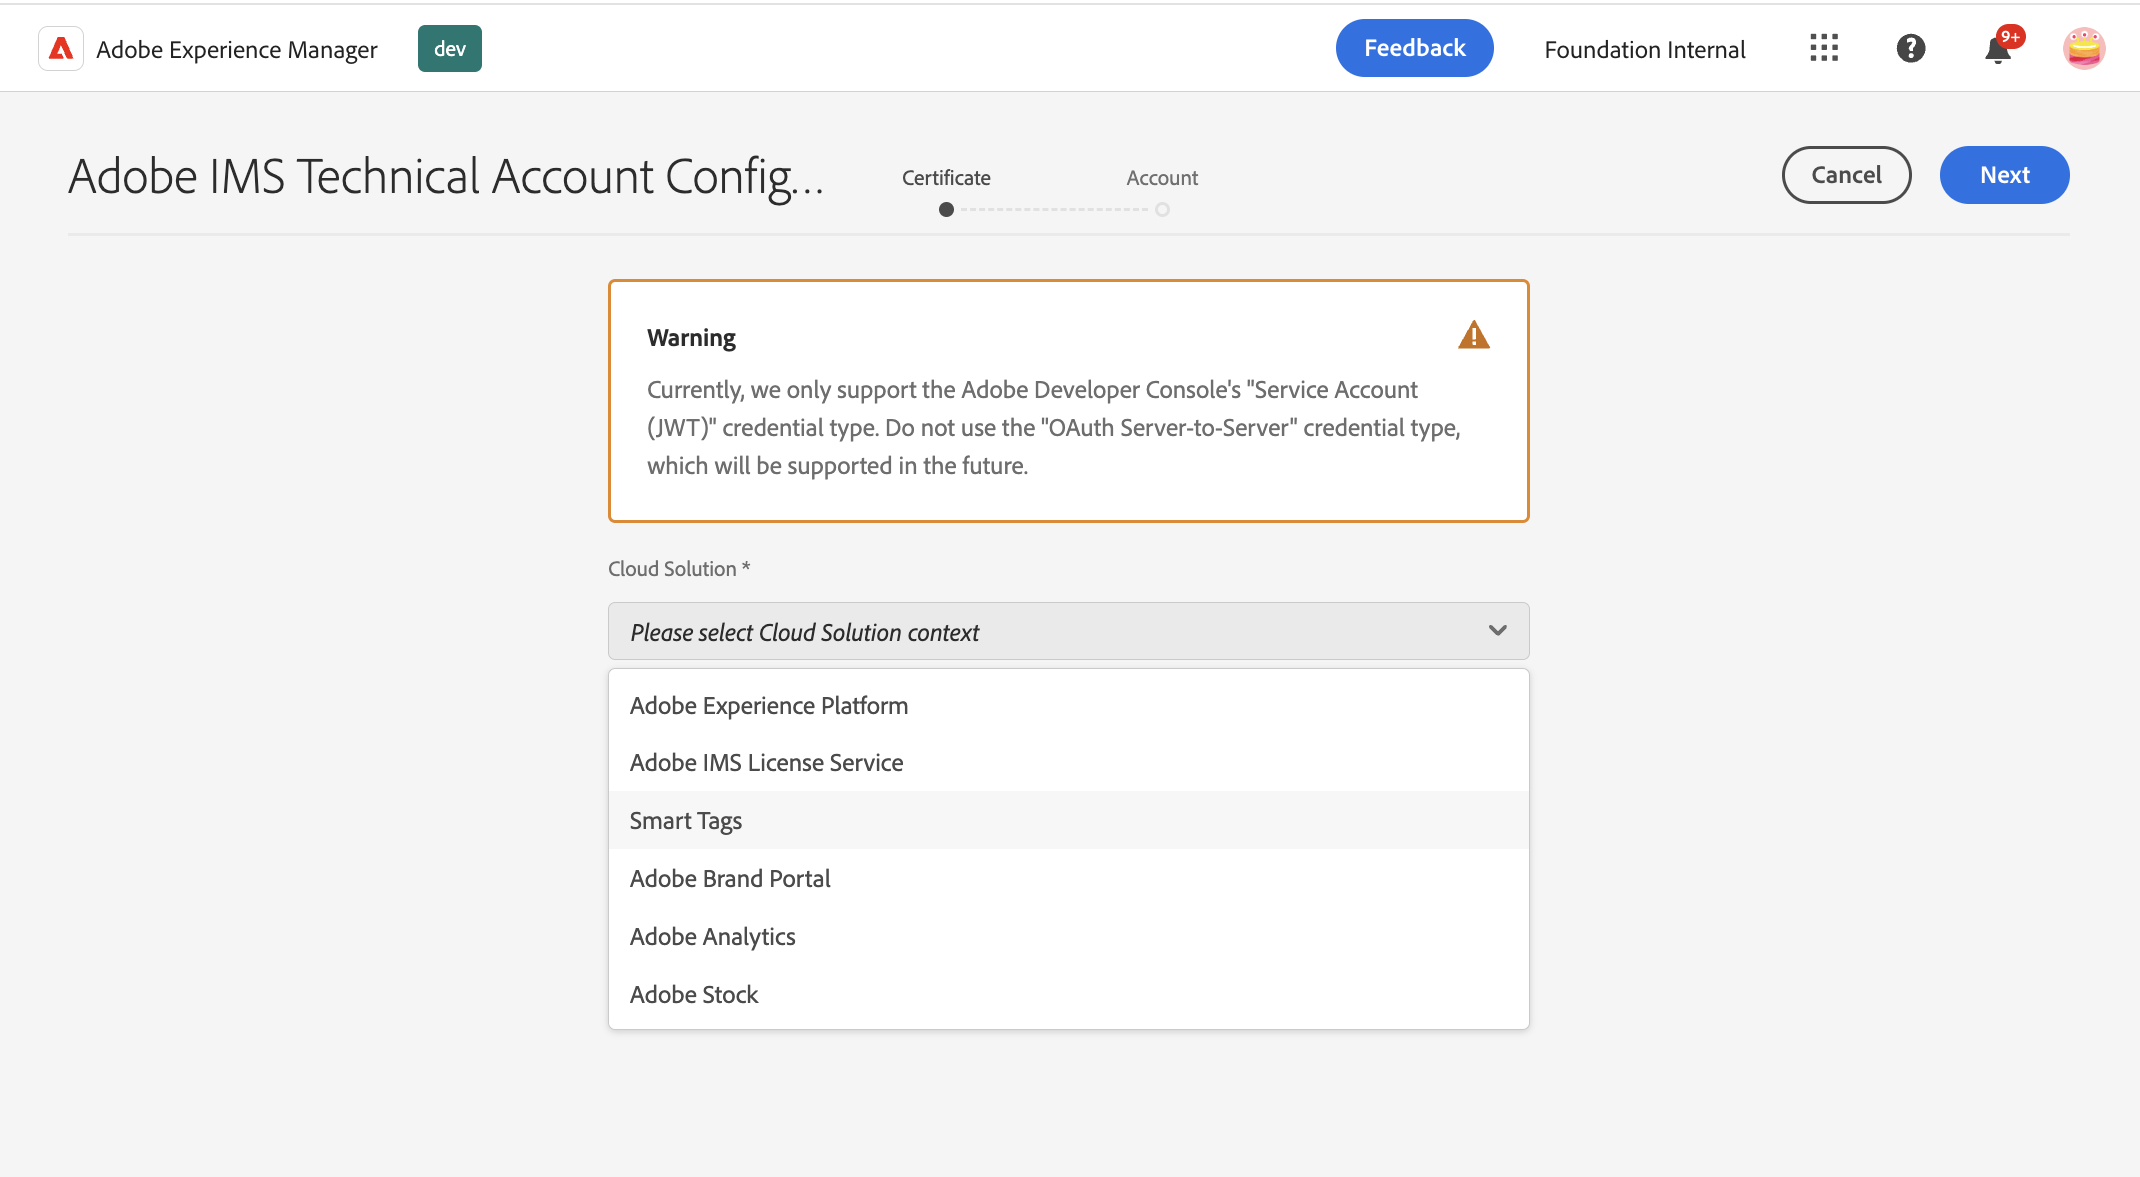
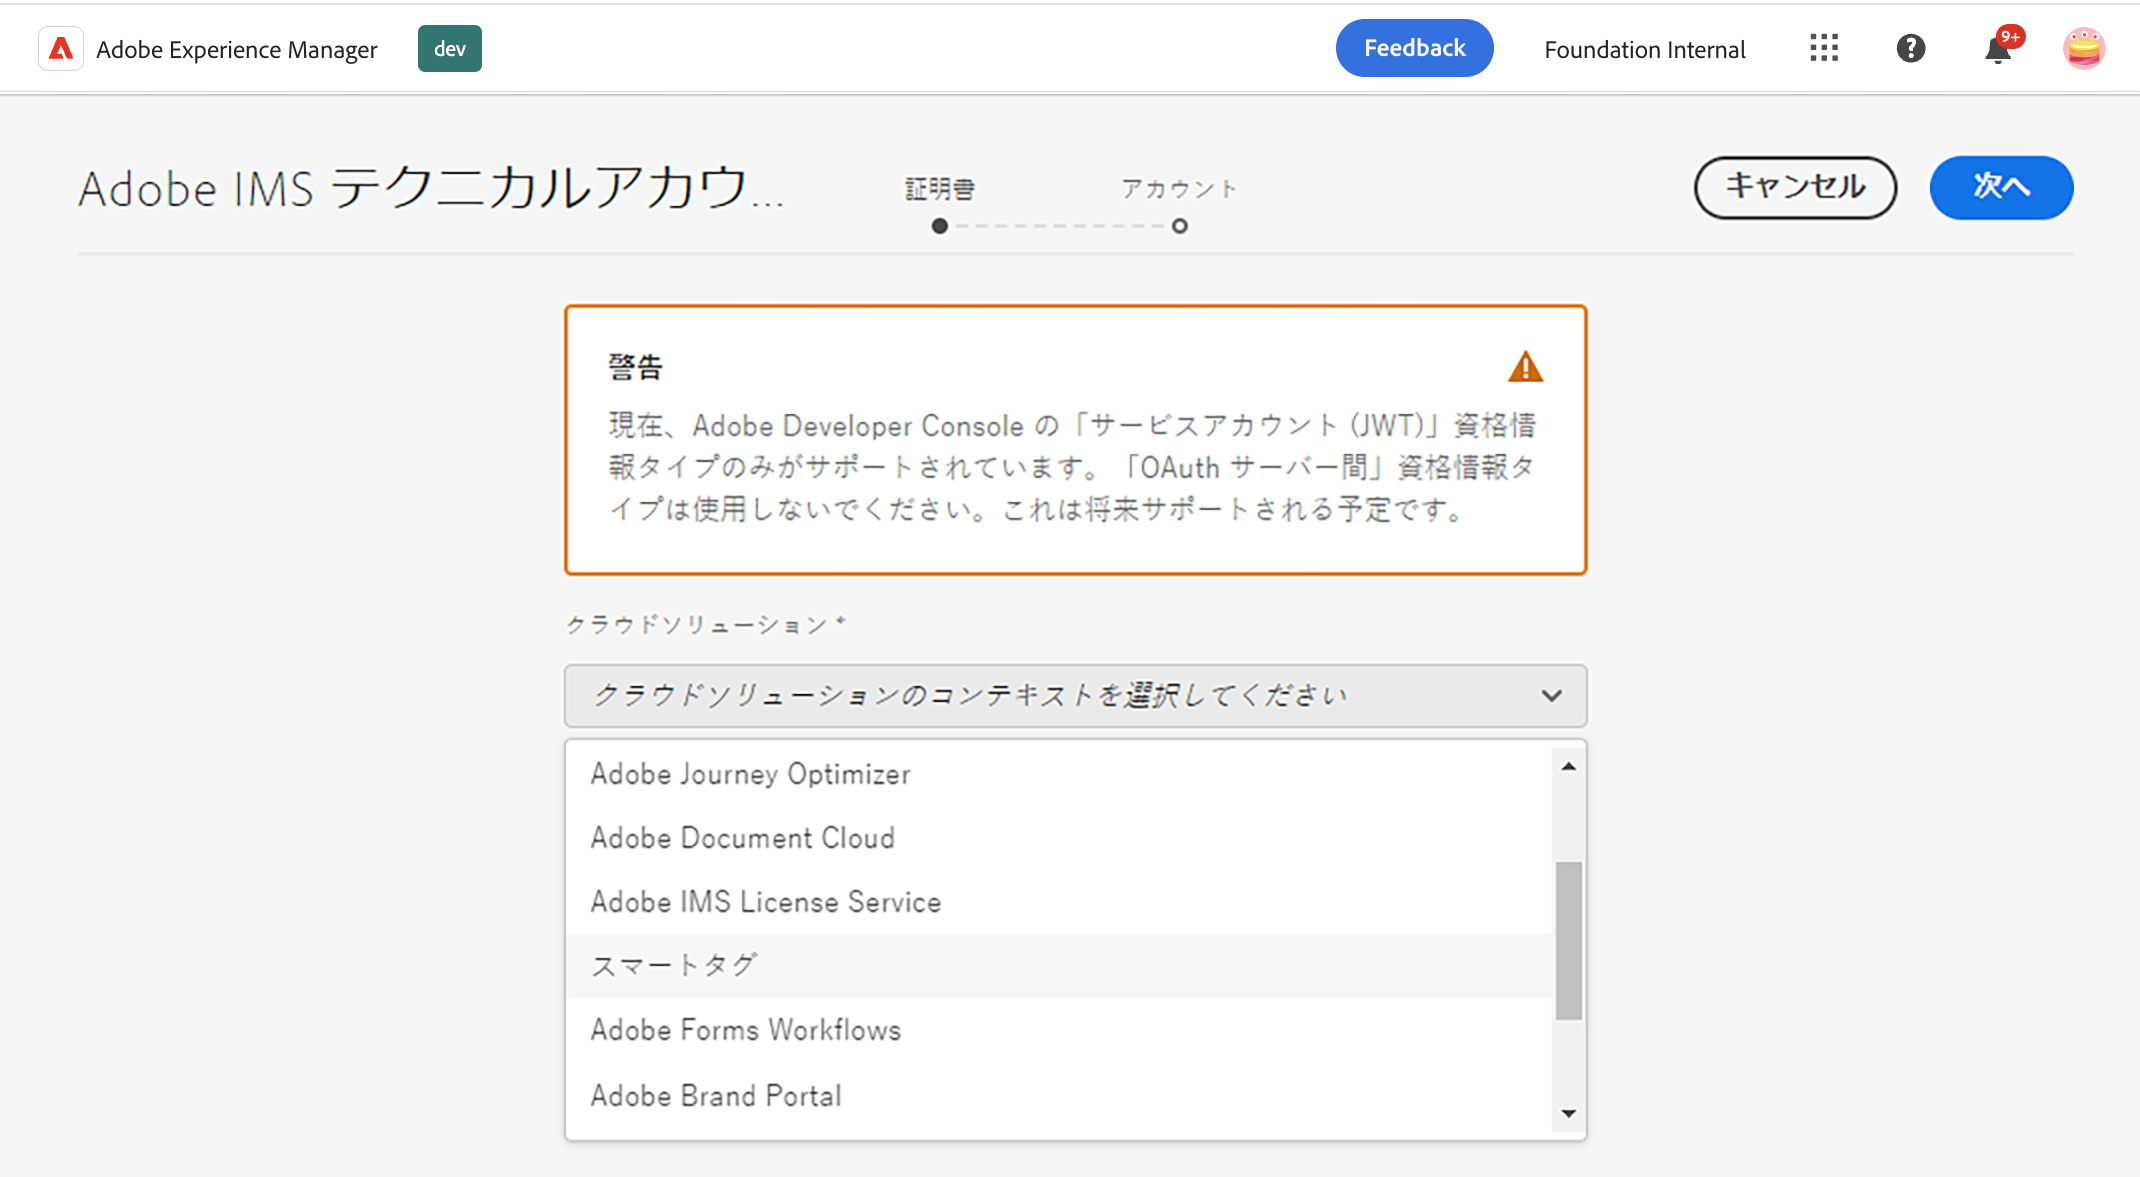
Updated by task 'AUTO_HANDOFF_PRIORITY_1709106743383'  Changes for core/source commit https://git.corp.adobe.com/AdobeDocs/experience-manager-cloud-service.en/commit/120845c9661c081409906cec98c60d8c0798b9bc

diff --git a/help/security/jwt-credentials-deprecation-in-adobe-developer-console.md b/help/security/jwt-credentials-deprecation-in-adobe-developer-console.md
@@ -1,57 +1,57 @@
 ---
-title: Adobe Developerコンソールでの JWT 資格情報の廃止
-description: AEM上のAdobe Developerコンソールでの JWT 資格情報の廃止の影響について説明します。
+title: Adobe Developer Console での JWT 資格情報の非推奨（廃止予定）
+description: AEM の Adobe Developer Console での JWT 資格情報の非推奨（廃止予定）の影響について説明します。
 source-git-commit: e02e38a5267188111f0392a0a5c7b73e6a4f22b5
-workflow-type: tm+mt
+workflow-type: ht
 source-wordcount: '598'
-ht-degree: 0%
+ht-degree: 100%
 
 ---
 
 
-# Adobe Developerコンソールでの JWT 資格情報の廃止 {#jwt-credentials-deprecation-in-adobe-developer-console}
+# Adobe Developer Console での JWT 資格情報の非推奨（廃止予定） {#jwt-credentials-deprecation-in-adobe-developer-console}
 
-Adobeのお客様が [Adobe Developer Console](https://developer.adobe.com/console) 様々な API へのアクセスを可能にする資格情報を生成する場合。 お客様は、OAuth サーバー間からシングルページアプリまで、様々な資格情報の種類から選択します。 これらの資格情報の種類の 1 つであるサービスアカウント (JWT) 資格情報は、OAuth サーバー間資格情報に代わって非推奨になりました。 新しいサービスアカウント (JWT) 資格情報は 2024 年 5 月 1 日以降は作成できず、2025 年 1 月 1 日以降は既存の JWT 資格情報は機能しません。 以下が可能です。 [廃止についてお読みください](https://developer.adobe.com/developer-console/docs/guides/authentication/ServerToServerAuthentication/migration/).
+アドビのお客様は、[Adobe Developer Console](https://developer.adobe.com/console) を使用すると、様々な API へのアクセスを可能にする資格情報を生成できます。お客様は、OAuth サーバー間からシングルページアプリまで、様々な資格情報タイプから選択できます。これらの資格情報タイプの 1 つであるサービスアカウント（JWT）資格情報は、OAuth サーバー間資格情報に代わって非推奨（廃止予定）になりました。新しいサービスアカウント（JWT）資格情報は 2024年5月1日（PT）以降は作成できなくなり、既存の JWT 資格情報は 2025年1月1日（PT）以降は機能しなくなります。非推奨（廃止予定）については、[こちら](https://developer.adobe.com/developer-console/docs/guides/authentication/ServerToServerAuthentication/migration/)を参照してください。
 
-この記事では、AEM as a Cloud ServiceおよびAEM 6.5 のお客様が非推奨をどのように処理するかに関する追加のコンテキストを提供します。
+この記事では、AEM as a Cloud Service および AEM 6.5 のお客様が非推奨（廃止予定）にどのように対処する必要があるかに関する追加のコンテキストを提供します。
 
-現時点での主な留意点は、AEM機能が新しい OAuth サーバー間資格情報をまだサポートしていないことです。 2024 年 4 月中旬に、AEMas a Cloud Service向けのAEMリリースと、AEM 6.5 向けの特別な互換性パッケージを通じて、最新の Service Pack 20 以降を実行している場合（Service Pack 21 以降では自動的にその機能が含まれます）のサポートがまもなく提供されます。 JWT 資格情報の移行手順が記載された電子メールが届いている可能性がありますが、新しい OAuth サーバー間資格情報タイプがAEMでサポートされるまで、資格情報の移行を保留しておく必要があります。
+現時点での主な留意点は、AEM の機能で新しい OAuth サーバー間資格情報がまだサポートされていないことです。サポートは、2024年4月中旬までに、AEM as a Cloud Service の AEM リリースを通じて、また最新のサービスパック 20 以前（サービスパック 21 以降には自動的に含まれます）を実行している場合は AEM 6.5 にインストールする特別な互換性パッケージを通じて提供される予定です。JWT 格情報を移行する手順が記載されたメールが届いている可能性がありますが、AEM で新しい OAuth サーバー間資格情報タイプがサポートされるまで、資格情報の移行を保留しても問題ありません。
 
-以下の節では、4 月中旬にAEMがサポートした後に、お客様がサービスアカウント (JWT) 資格情報を OAuth サーバー間資格情報に置き換える（または置き換えない）必要があるシナリオを示します。 [読み方](https://developer.adobe.com/developer-console/docs/guides/authentication/ServerToServerAuthentication/migration/#migration-overview) 」をクリックして、将来の資格情報を置き換えます。
+以下の節では、AEM で 4 月中旬にサポートされた後、お客様がサービスアカウント（JWT）資格情報を OAuth サーバー間資格情報に置き換える必要がある（場合によっては置き換えてはいけない）シナリオを示します。今後、資格情報を置き換える方法については、[こちら](https://developer.adobe.com/developer-console/docs/guides/authentication/ServerToServerAuthentication/migration/#migration-overview)を参照してください。
 
 >[!NOTE]
 >
->The [**AEM** 開発者コンソール](/help/implementing/developing/introduction/development-guidelines.md#crxde-lite-and-developer-console) ( **AEM** 名前では、 **Adobe** 開発者コンソール ) は、 [JWT トークン](/help/implementing/developing/introduction/generating-access-tokens-for-server-side-apis.md) サーバー間 API に使用されます。 これらの資格情報は非推奨ではなく、引き続き使用できます。
+>[**AEM** Developer Console](/help/implementing/developing/introduction/development-guidelines.md#crxde-lite-and-developer-console)（**Adobe** Developer Console と区別するために名前に **AEM** が含まれています）では、サーバー間 API に使用される [JWT トークン](/help/implementing/developing/introduction/generating-access-tokens-for-server-side-apis.md)を生成するユーティリティを提供します。これらの資格情報は非推奨（廃止予定）ではなく、引き続き使用できます。
 
 
-## AEMと他のAdobeソリューションの統合 {#integrating-aem-with-other-adobe-solutions}
+## AEM と他のアドビソリューションの統合 {#integrating-aem-with-other-adobe-solutions}
 
-**アクション**:2024 年 4 月中旬以降、AEMが移行をサポートするまで待ちます。
+**アクション**：AEM でサポートされる 2024年4月中旬以降まで移行を待ちます。
 
-**関連するAEMバージョン**:AEM as a Cloud ServiceおよびAdobeManaged Services（Service Pack 20 以前）。
+**関連する AEM バージョン**：AEM as a Cloud Service および Adobe Managed Services（サービスパック 20 以前）。
 
 
-AEMのお客様は、AEMオーサー UI を使用して、他のすべてのAdobeソリューションとの統合を設定します。 例えば、Adobe Target、Adobe Analytics、AdobeLaunch、AFCS などです。
+AEM のお客様は、AEM オーサー UI を使用すると、他のすべてのアドビソリューション（例えば、Adobe Target、Adobe Analytics、Adobe Launch、AFCS など）との統合を設定できます。
 
-![AEMと他のソリューションの統合](/help/security/assets/jwt-deprecation.png)
+![AEM と他のソリューションの統合](/help/security/assets/jwt-deprecation.png)
 
-例として、次のようになります。 [説明書](https://docs.mktossl.com/docs/experience-manager-cloud-service/content/sites/integrations/integration-adobe-target-ims.html?lang=en) Adobe Targetとの統合を設定する場合。 の API キー [AEMでの IMS 設定の完了](https://docs.mktossl.com/docs/experience-manager-cloud-service/content/sites/integrations/integration-adobe-target-ims.html#completing-the-ims-configuration-in-aem) AEMが 4 月中旬にこれらの資格情報をサポートするようになれば、セクションは OAuth サーバー間資格情報タイプに移行する必要があります。 これらの手順は、新しい OAuth サーバー間資格情報を適用するのに役立つよう、4 月中旬に改訂されます。
+例えば、Adobe Target との統合を設定する手順については、[こちら](https://docs.mktossl.com/docs/experience-manager-cloud-service/content/sites/integrations/integration-adobe-target-ims.html?lang=ja)を参照してください。[AEM での IMS 設定の完了](https://docs.mktossl.com/docs/experience-manager-cloud-service/content/sites/integrations/integration-adobe-target-ims.html?lang=ja#completing-the-ims-configuration-in-aem)の節に記載されている API キーは、4月中旬に AEM でこれらの資格情報がサポートされたら、OAuth サーバー間資格情報タイプに移行する必要があります。これらの手順は、新しい OAuth サーバー間資格情報を適用できるように、4月中旬に改訂される予定です。
 
 ## Cloud Manager API {#cloud-manager-apis}
 
-**アクション**:2024 年 4 月中旬以降、AEMが移行をサポートするまで待ちます。
+**アクション**：AEM でサポートされる 2024年4月中旬以降まで移行を待ちます。
 
-**関連するAEMバージョン**:AEM as a Cloud ServiceおよびAdobeManaged Services（Service Pack 20 以前）。
+**関連する AEM バージョン**：AEM as a Cloud Service および Adobe Managed Services（サービスパック 20 以前）。
 
-お客様は、Adobe Developer Console プロジェクトを作成して、 [Cloud Manager API](https://developer.adobe.com/experience-cloud/cloud-manager/guides/getting-started/create-api-integration/). AEMと Cloud Manager がサポートすると、Adobe Developerプロジェクトの資格情報は、OAuth サーバー間資格情報タイプに移行する必要があります。
+お客様は Adobe Developer Console プロジェクトを作成すると、[Cloud Manager API](https://developer.adobe.com/experience-cloud/cloud-manager/guides/getting-started/create-api-integration/) を呼び出すことができます。AEM と Cloud Manager でサポートされたら、Adobe Developer プロジェクトの資格情報を OAuth サーバー間資格情報タイプに移行する必要があります。
 
 ## 自動生成されたプロジェクト {#autogen-projects}
 
-**アクション**：お客様に代わってAdobeが移行されるので、移行しないでください。
+**アクション**：アドビがお客様に代わって移行するので、移行しないでください。
 
-**関連するAEMバージョン**:as a Cloud Serviceのみ。
+**関連する AEM バージョン**：AEM as a Cloud Service のみ。
 
-Cloud Manager がAEMas a Cloud Service環境をプロビジョニングすると、JWT 資格情報を持つAdobe Developerコンソールプロジェクトが自動生成されます。 このプロジェクトは読み取り専用としてマークされます。下のスクリーンショットを参照してください。 お客様は、これらのプロジェクトを OAuth サーバー間資格情報にAdobeしようとすることはできません。代わりに、お客様は、資格情報が使用できなくなる前に、これらのプロジェクトを単独で移行します。
+Cloud Manager で AEM as a Cloud Service 環境をプロビジョニングすると、JWT 資格情報を使用して Adobe Developer Console プロジェクトが自動生成されます。以下のスクリーンショットに示すように、このプロジェクトは読み取り専用としてマークされます。お客様は、これらのプロジェクトを OAuth サーバー間資格情報に移行できません。試さないでください。代わりに、資格情報が使用できなくなる前に、アドビがこれらのプロジェクトを独自に移行します。
 
 ![自動生成されたプロジェクト](/help/security/assets/jwt-deprecation-autogen-projects.png)
 

diff --git a/help/overview/what-is-new-and-different.md b/help/overview/what-is-new-and-different.md
@@ -3,7 +3,7 @@ title: 相違点と新機能 - Adobe Experience Manager as a Cloud Service
 description: 相違点と新機能 - Adobe Experience Manager（AEM）as a Cloud Service。
 exl-id: d1ce126e-960c-4367-b741-af709dd81010
 source-git-commit: bbd845079cb688dc3e62e2cf6b1a63c49a92f6b4
-workflow-type: tm+mt
+workflow-type: ht
 source-wordcount: '1883'
 ht-degree: 100%
 
